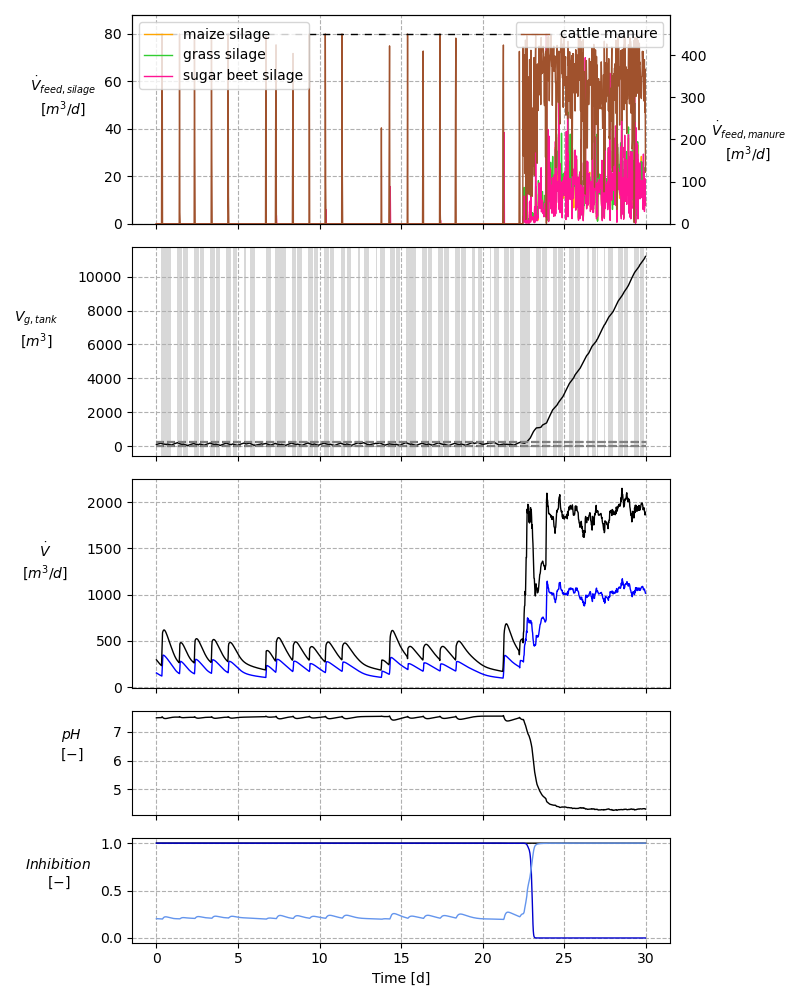
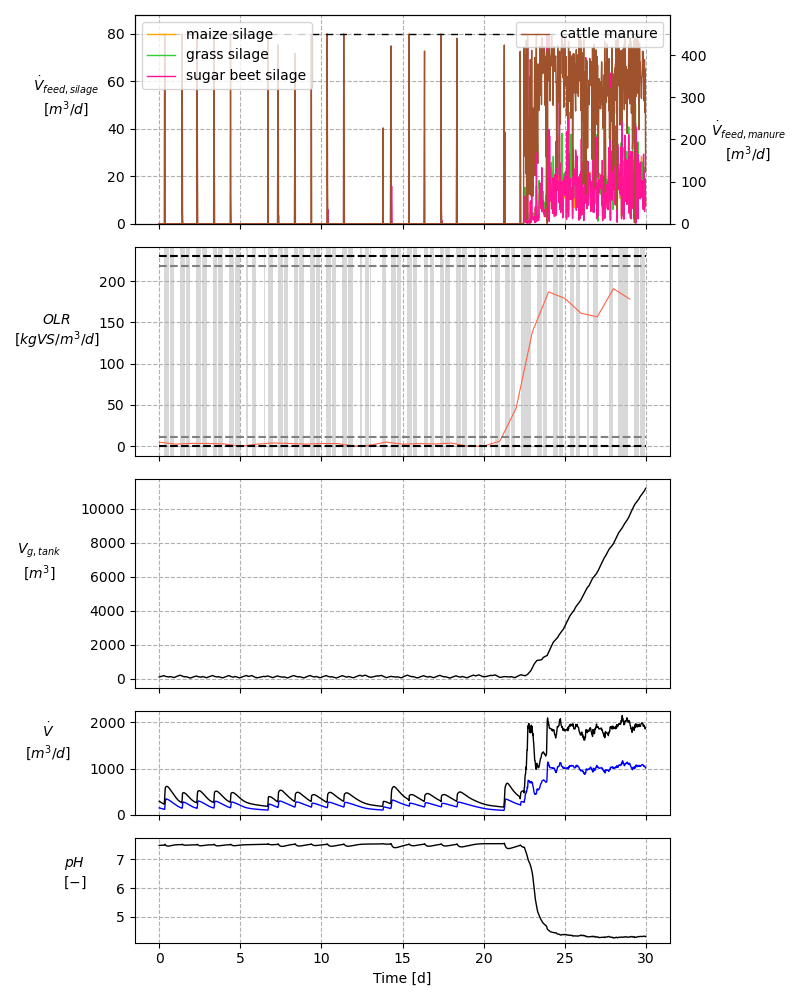
update OLR plotting (WIP)

diff --git a/ad_meal_prep_control/postprocessing.py b/ad_meal_prep_control/postprocessing.py
@@ -91,8 +91,8 @@ class PostProcessing:
         # u_controlled = []
         # for k in range(self._num_u):
         #     u_controlled.append(self._data_simulator._u[:, k] * self._scenario_meta_data["Tu"][k])
-        u_controlled = self._data_simulator._u * self._scenario_meta_data["Tu"]
-        u_dictated = self._data_simulator._tvp[:, self._num_u - 1] * self._scenario_meta_data["Tu"][self._num_u + feed_num - 1]
+        u_controlled = self._data_simulator._u * self._scenario_meta_data["Tu"][0:self._num_u]
+        # u_dictated = self._data_simulator._tvp[:, self._num_u - 1] * self._scenario_meta_data["Tu"][self._num_u + feed_num - 1]
 
         # get inlet concentrations:
         self._xis_controlled_subs = []
@@ -108,7 +108,7 @@ class PostProcessing:
 
         # get daily OLR by averaging over batches of 24h (thanks chatGPT):
         time = np.array(self._data_simulator._time[:, 0])
-        day_indices = np.ceil(time).astype(int)  # Convert time in days to integer day indices
+        day_indices = np.floor(time).astype(int)  # Convert time in days to integer day indices
         unique_days = np.unique(day_indices)
         data = self.olr_controlled
         daily_average = np.array([data[day_indices == day].mean() for day in unique_days])
@@ -139,15 +139,20 @@ class PostProcessing:
             plot_olr: bool = False,  # __SH: if True, height_ratios must have 1 additional list entry
     ):
 
-        # insert volume flows and/or OLR to subplots in reverse order:
-        if plot_olr:
-            subplot_labels_and_vars.insert(
-                0, (r"$OLR$" + "\n" + r"$[kg VS/m^3/d]$", {f"OLR": None})
-            )
-
+        # insert volume flows and/or OLR to subplots:
         if plot_inputs:
             subplot_labels_and_vars.insert(
                 0, (r"$\dot V_{feed,silage}$" + "\n" + r"$[m^3/d]$", {f"u_norm": None})
+            )
+
+        if plot_olr and self._num_dictated_subs == 0:
+            subplot_labels_and_vars.insert(
+                1, (r"$OLR$" + "\n" + r"$[kg VS/m^3/d]$", {f"OLR": None})
+            )
+
+        if plot_olr and self._num_dictated_subs > 0:
+            subplot_labels_and_vars.insert(
+                2, (r"$OLR$" + "\n" + r"$[kg VS/m^3/d]$", {f"OLR": None})
             )
 
         if height_ratios is None:
@@ -255,7 +260,7 @@ class PostProcessing:
 
                         x_num = int(plot_var_name.split("_")[-1])
 
-                    # plot outputs:
+                    # plot outputs (includes dictated substrates):
                     elif plot_var_name[0] == "y":
                         y_num = int(plot_var_name.split("_")[-1])
 
@@ -433,13 +438,16 @@ class PostProcessing:
                     elif plot_var_name.startswith("OLR"):
 
                         if plt_kwargs["color"] is None:
-                            plt_kwargs["color"] = "tomato"
+                            plt_kwargs["color"] = "black"
 
                         plt_kwargs["drawstyle"] = "steps-post"
 
+                        # the last data point must be repeated for step plots to be shown until the end of plotted time:
+                        unique_days_plot = np.append(self.unique_days, self._data_simulator._time[-1])
+                        olr_daily_plot = np.append(self.olr_controlled_daily, self.olr_controlled_daily[-1])
                         ax.plot(
-                            self.unique_days,
-                            self.olr_controlled_daily,
+                            unique_days_plot,
+                            olr_daily_plot,
                             **plt_kwargs,
                         )
 

diff --git a/ad_meal_prep_control/plot_generation/plot_scenario_2b.py b/ad_meal_prep_control/plot_generation/plot_scenario_2b.py
@@ -123,18 +123,19 @@ post_processing.plot(
     ],
     plot_save_name="Scenario_2b_nominal_ideal",
     constraints=[
-        Constraint(value=0.0, ax_idx=2),
-        Constraint(value=params_R3.V_GAS_STORAGE_MAX, ax_idx=2),
-        Constraint(value=0.05 * params_R3.V_GAS_STORAGE_MAX, ax_idx=2, color="grey"),
-        Constraint(value=0.95 * params_R3.V_GAS_STORAGE_MAX, ax_idx=2, color="grey"),
+        Constraint(value=0.0, ax_idx=3),
+        Constraint(value=params_R3.V_GAS_STORAGE_MAX, ax_idx=3),
+        Constraint(value=0.05 * params_R3.V_GAS_STORAGE_MAX, ax_idx=3, color="grey"),
+        Constraint(value=0.95 * params_R3.V_GAS_STORAGE_MAX, ax_idx=3, color="grey"),
         # adapt ylim of plots by adding invisible horizontal lines:
-        Constraint(value=0, ax_idx=3, color="white"),  # gas production lower bound
-        Constraint(value=7.6, ax_idx=4, color="white"),  # pH upper bound
-        Constraint(value=0, ax_idx=5, color="white"),  # inhibtion lower bound
+        Constraint(value=0, ax_idx=4, color="white"),  # gas production lower bound
+        Constraint(value=7.6, ax_idx=5, color="white"),  # pH upper bound
+        Constraint(value=0, ax_idx=6, color="white"),  # inhibtion lower bound
     ],
     dpi=dpi,
     show_plot=show_plot,
-    height_ratios=[2, 1, 2, 2, 1, 1],
+    height_ratios=[2, 1, 1, 2, 2, 1, 1],
     color_background_indices=(0,1),
+    plot_olr=True,
 )
 #controller_plotting_2b()

diff --git a/ad_meal_prep_control/scenarios/scenario_2a_nominal_ideal.py b/ad_meal_prep_control/scenarios/scenario_2a_nominal_ideal.py
@@ -11,14 +11,15 @@ import numpy as np
 
 fill_level_setpoint = 0.4
 lterm = (f"(5*(model.x['x_19'] + model.x['x_20'] + model.aux['V_H2O']/V_GAS_STORAGE_MAX - {fill_level_setpoint})**2 +"
-         f"+ 5e-1 *(model.x['x_19'] + model.x['x_20'] + model.aux['V_H2O']/V_GAS_STORAGE_MAX - {fill_level_setpoint})**4)"
+         f"+ 5e-1*(model.x['x_19'] + model.x['x_20'] + model.aux['V_H2O']/V_GAS_STORAGE_MAX - {fill_level_setpoint})**4)"
          )
 
 mterm = "model.tvp['dummy_tvp']"
+
 cost_func = CostFunction(lterm=lterm, mterm=mterm)
 
 # user input:
-n_days_mpc = 14  # length of simulation [d]
+n_days_mpc = 3  # length of simulation [d]
 n_std_dev = 0  # number std deviations
 t_stp_ahead_pred = 8  # for controller plotting
 
